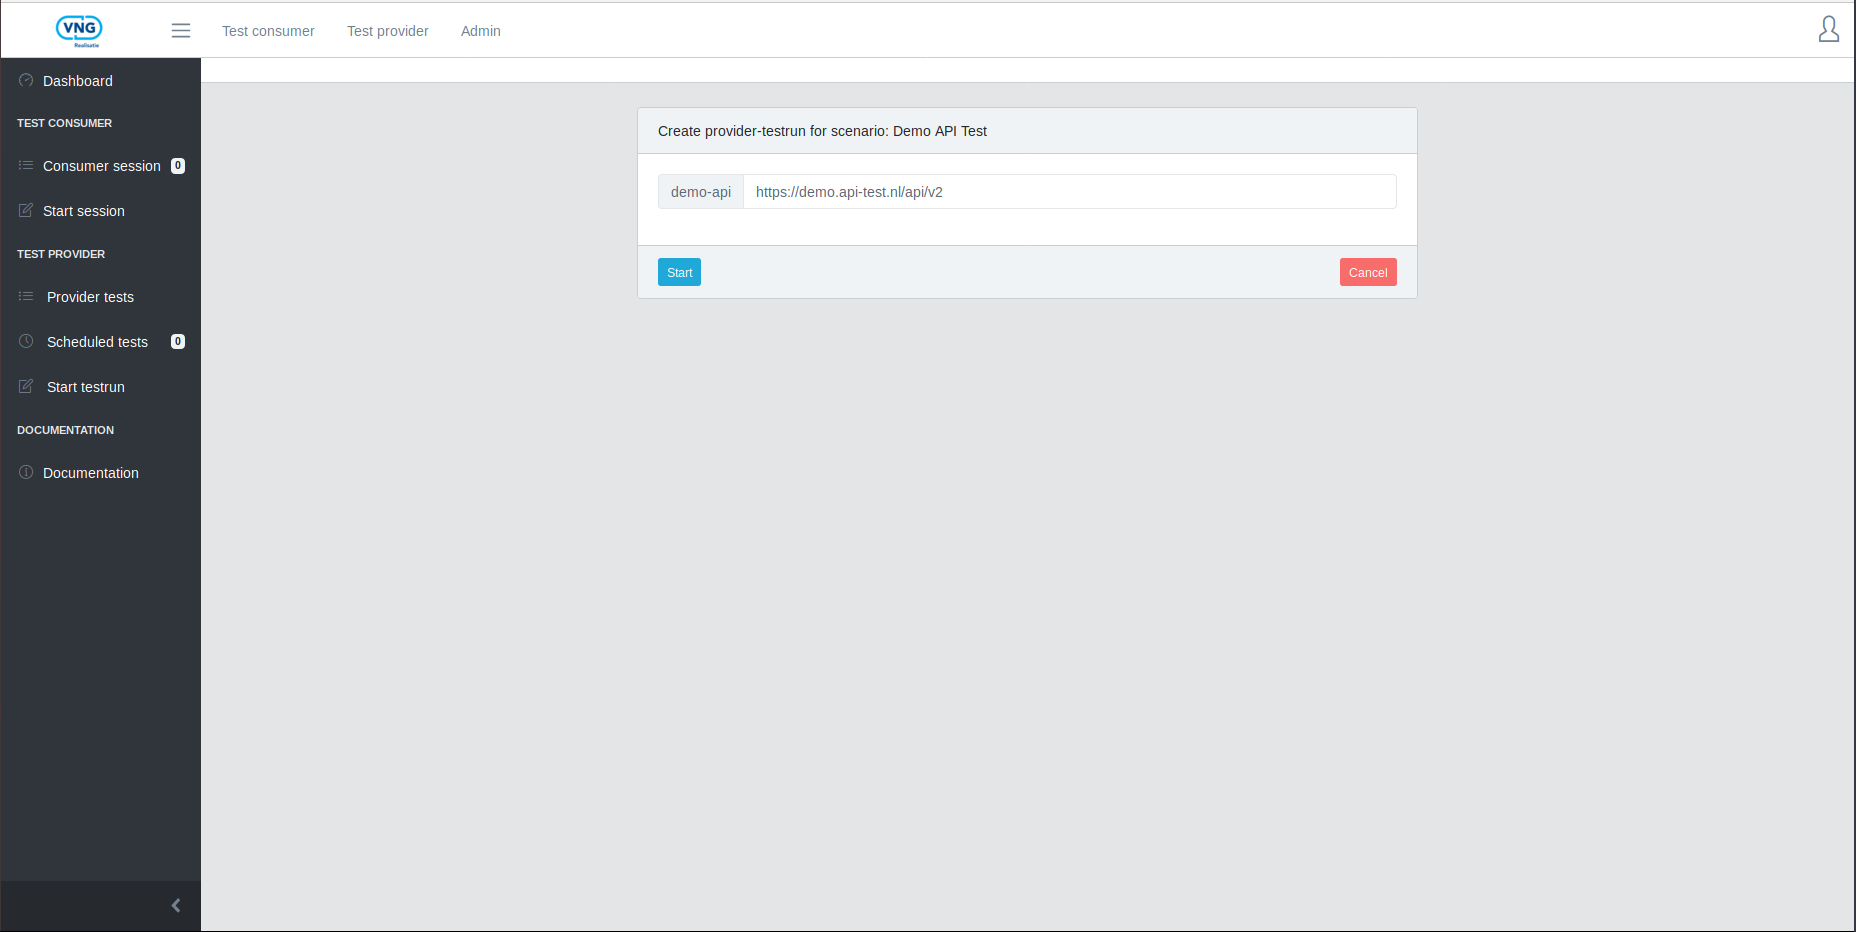
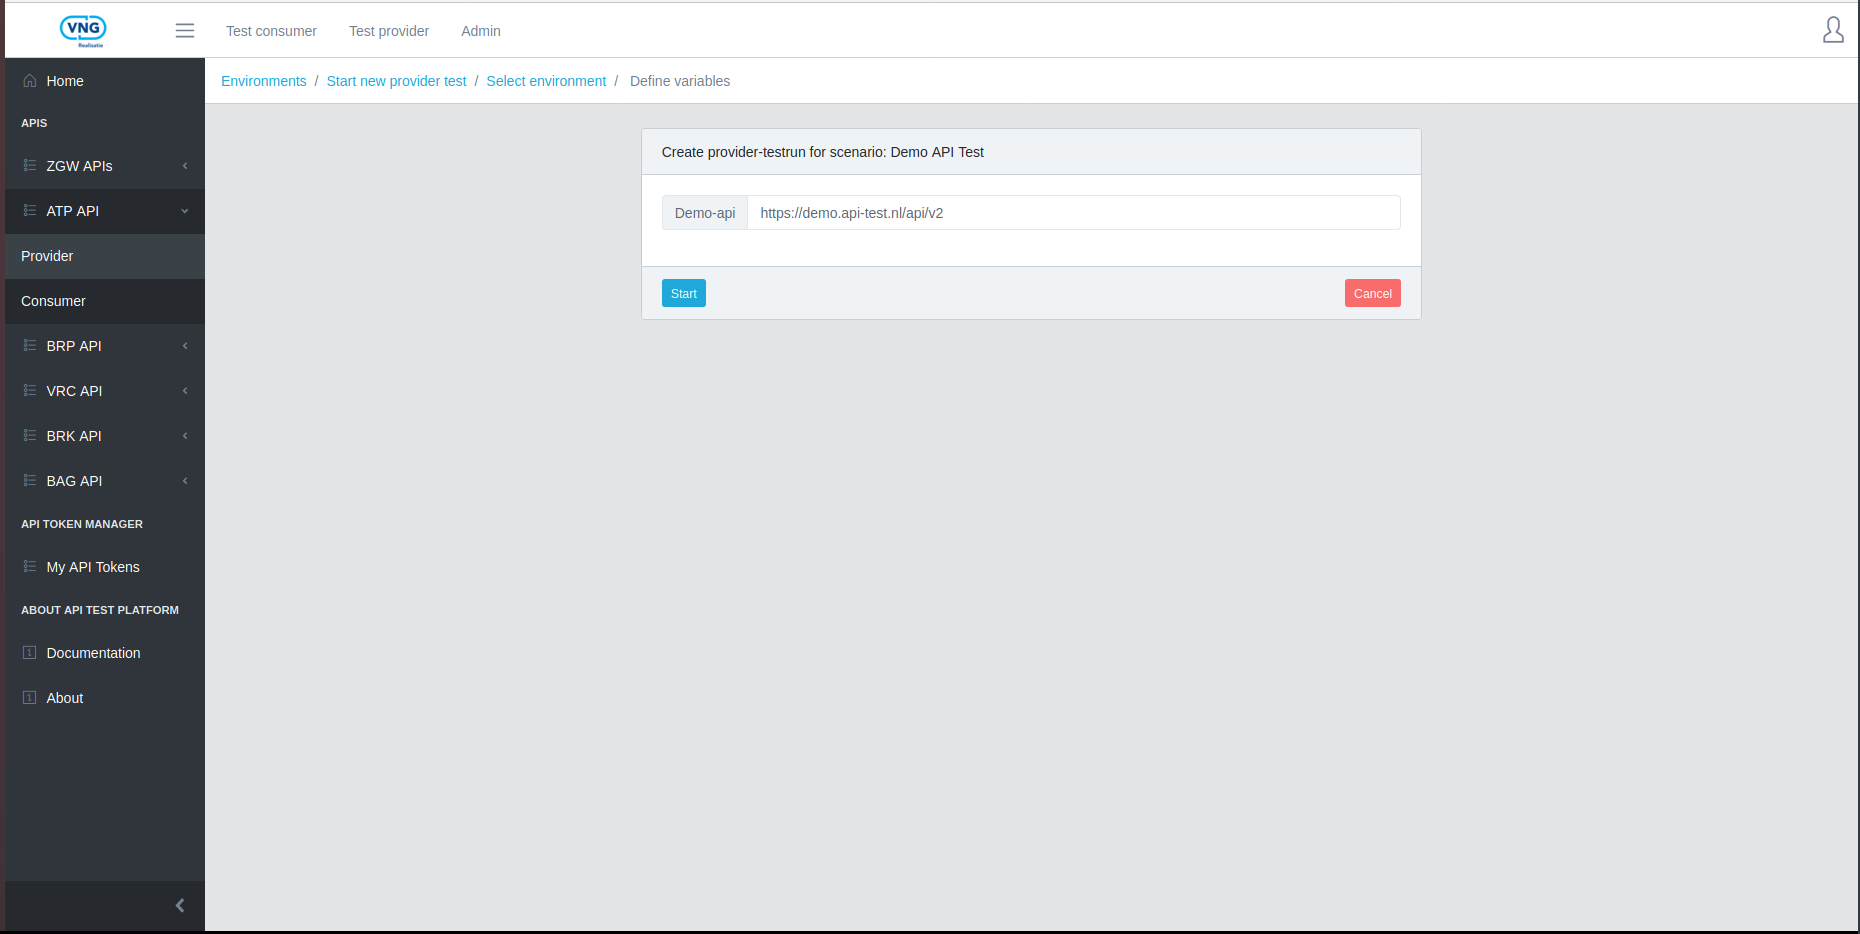
Fixes #333 -- updated tutorial for provider testing

diff --git a/tutorials/PROVIDER_TEST.md b/tutorials/PROVIDER_TEST.md
@@ -11,36 +11,48 @@ In this section we focus on how to:
 
 A provider test allows providers to validate that their APIs are built according to a standard. This is done using a Postman collection that fires requests to the URL(s) of the API(s) that have to be tested.
 
-## Configure and start a test
-In order to start a test it is necessary to tune some details. Clicking on the **Start testrun** button, a form is displayed.
-![](https://raw.githubusercontent.com/VNG-Realisatie/api-testvoorziening/master/tutorials/images/providers_form.png)    
-Here the type of provider test that must be run is selected, for this tutorial, we will select the `Demo API test` provider test. 
+## Select an API to test
+In the menu on the right, a list is displayed of the APIs that can be tested on the API Test Platform. Select the API that you wish to test and click on `Provider`. For this tutorial, we will use the API of the ATP itself.
+![](https://raw.githubusercontent.com/VNG-Realisatie/api-testvoorziening/master/tutorials/images/api_screen.png)
 
-Optionally, the schedule checkbox triggers an automatic test with the same configuration every day at 00:00. In this case the results are also sent via email and are available in the specific tab **Schedule tests**. Except this difference the following procedure are exactly the same in both cases.  
+The next page shows a list of the existing environments for test scenarios for the selected API. Because we want to create a new environment, we click on the `Create environment` button in the top right corner of the page.
+![](https://raw.githubusercontent.com/VNG-Realisatie/api-testvoorziening/master/tutorials/images/environments.png)
+
+
+## Configure and start a test
+In order to start a test it is necessary to tune some details. First we have to select the test scenario that we want to use:
+![](https://raw.githubusercontent.com/VNG-Realisatie/api-testvoorziening/master/tutorials/images/providers_form.png)    
+Here the type of provider test that must be run is selected, for this tutorial, we will select the `Demo API test` provider test.
+
+In the next step we can enter a name for the environment
+![](https://raw.githubusercontent.com/VNG-Realisatie/api-testvoorziening/master/tutorials/images/create_environment.png) 
 
 In the next page
 ![](https://raw.githubusercontent.com/VNG-Realisatie/api-testvoorziening/master/tutorials/images/providers_endpoints.png)  
 the endpoints of the provider must be specified. In the case of the Demo API, this is only a single URL. Also, according to the authentication type of the test, it might be possible that *client id* and *secret* are required in order to build a *jwt token*. This is not necessary for the Demo API.
 
 ## Analyze the results
+Once we have created our environment, we will be taken to the page that shows all of the testruns for our environment, which is currently just a single run. At the top it shows the API that was tested, the test scenario that was used and the name of the environment, as well as the badge with the latest result of this environment.
+![](https://raw.githubusercontent.com/VNG-Realisatie/api-testvoorziening/master/tutorials/images/environment_page.png)
+
 The returned page after having fired the tests will be a list of all the tests, their status and the badges generated for them.
-![](https://raw.githubusercontent.com/VNG-Realisatie/api-testvoorziening/master/tutorials/images/providers_list.png) 
+![](https://raw.githubusercontent.com/VNG-Realisatie/api-testvoorziening/master/tutorials/images/providers_list.png)
+
 You can click to the ID column link to get the data relative to the last test. Once the tests are performed (it can take a while according to the size of the tests), the results are displayed in the detail page.
 
+In the first part of page all the information relative to the selected provider test are shown, as well as links to the detailed HTML and JSON logs provided by Newman.
 
-In the first part of page all the information relative to the selected provider test are shown.
+On the right hand side, the markdown and HTML snippets can be copied to display the badge on GitHub for example.
 ![](https://raw.githubusercontent.com/VNG-Realisatie/api-testvoorziening/master/tutorials/images/providers_summary.png) 
 
 Below the provider test details, an overview of the Postman test results is displayed.
 ![](https://raw.githubusercontent.com/VNG-Realisatie/api-testvoorziening/master/tutorials/images/providers_calls_summary.png) 
 
 Scrolling further down, a more detailed overview of the Postman collections is displayed, showing the results of each call and testscript.
-![](https://raw.githubusercontent.com/VNG-Realisatie/api-testvoorziening/master/tutorials/images/providers_results.png) 
-
-It is also possible to see a generated HTML log that slightly differs from the detail page. Furthermore, a json and a PDF log is available to download (bear in mind that generate the PDF for quite long collection can take time).
+![](https://raw.githubusercontent.com/VNG-Realisatie/api-testvoorziening/master/tutorials/images/providers_results.png)
 
 ## Using the badges
-In the detail page, both HTML snippet and the code for the raw.githubusercontent markdown are available. IN order to have you own badge, just copy and paste the code on your website or in you repository.
+In the detail page, both HTML snippet and the code for the raw.githubusercontent markdown are available. In order to have you own badge, just copy and paste the code on your website or in you repository.
 
 ## Export the results
-The results are available to the download in the log section of the detail page.
+The results are available for download in the log section of the detail page.
